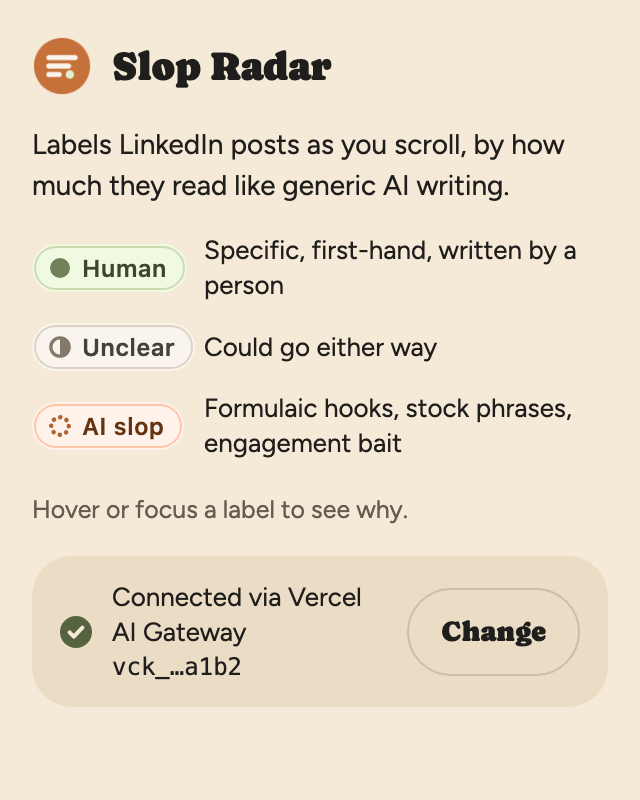
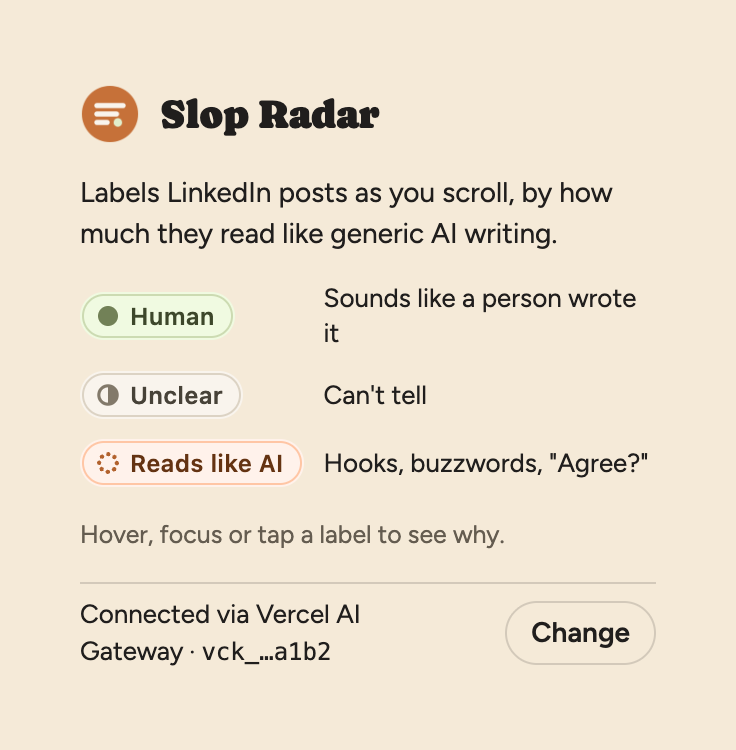
docs(screenshots): retake the README shots on real pages
The feed shots come from the live LinkedIn feed with a real key, with
names, faces, media and any post text that could identify someone
blurred. The popup and settings shots show a placeholder key.

diff --git a/README.md b/README.md
@@ -14,7 +14,7 @@ Not affiliated with or endorsed by LinkedIn.
 
 <picture>
   <source media="(prefers-color-scheme: dark)" srcset="docs/feed-dark.png" />
-  <img src="docs/feed-light.png" width="520" alt="LinkedIn feed posts with Slop Radar tags: a formulaic post tagged Reads like AI with its popover open showing 86% slop and three signals, a hydrologist's field report tagged Human, a hiring post tagged Unclear, and one still Checking. The popover ends with: judges writing style, not who wrote it." />
+  <img src="docs/feed-light.png" width="520" alt="A LinkedIn feed with Slop Radar tags. Names, faces, photos and any post text that names someone are blurred. The top post is tagged Reads like AI with its popover open: 24% human, 11% neither, 65% slop, and the line &quot;Judges writing style, not who wrote it.&quot; The posts below are tagged Reads like AI too." />
 </picture>
 
 ## What the tags mean
